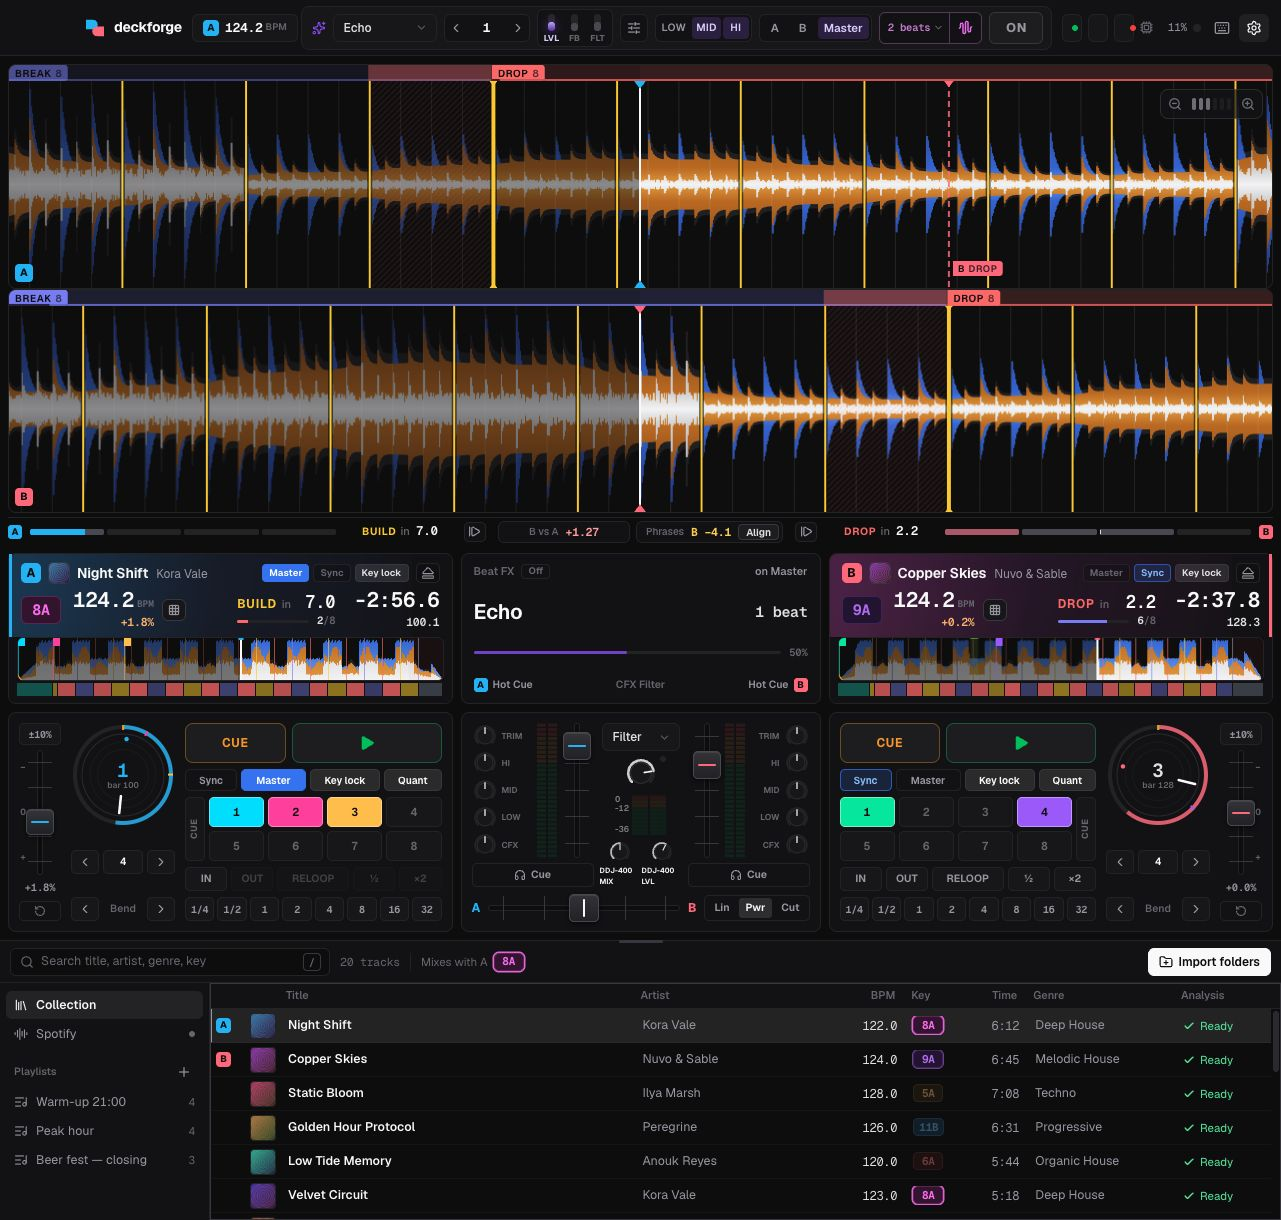
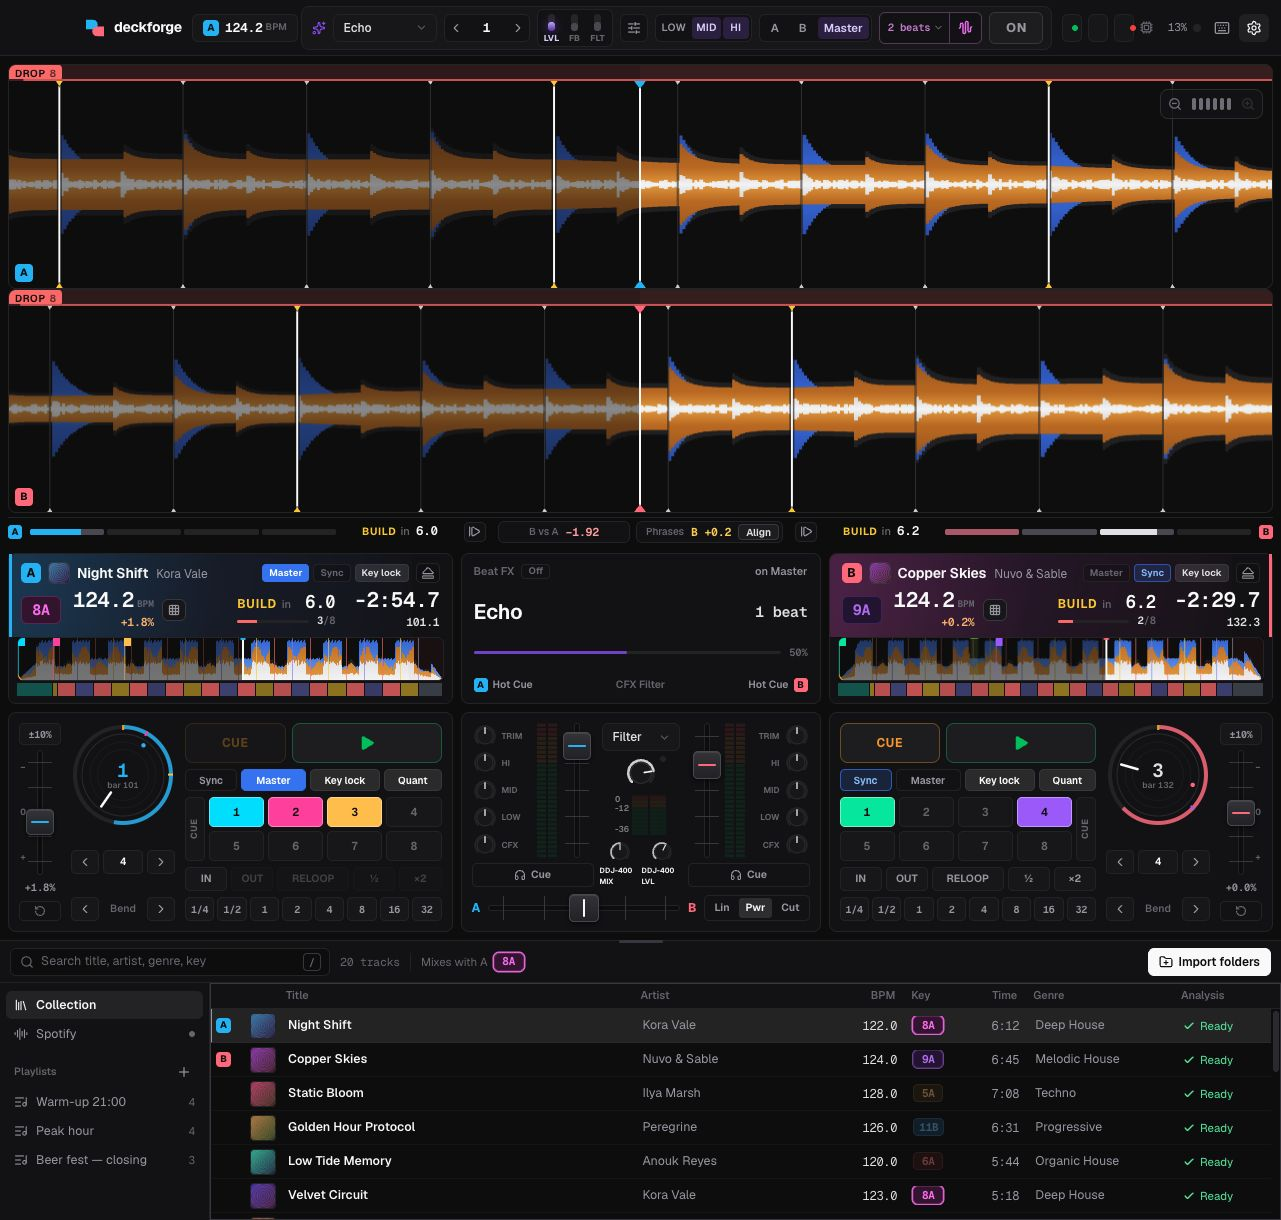
style: clarify beatmatch beat markers

diff --git a/apps/desktop/src/lib/waveform/draw.ts b/apps/desktop/src/lib/waveform/draw.ts
@@ -102,13 +102,16 @@ const INK = '#09090b';
 const GRID = {
   beat: 'rgba(250,250,250,0.3)',
   beatFaint: 'rgba(250,250,250,0.09)',
+  beatmatchMinor: 'rgba(250,250,250,0.18)',
+  beatmatchMinorMarker: 'rgba(250,250,250,0.82)',
+  beatmatchDownbeat: '#fafafa',
+  beatmatchDownbeatMarker: '#facc15',
   bar: 'rgba(250,250,250,0.5)',
   four: 'rgba(250,250,250,0.78)',
   shadow: 'rgba(9,9,11,0.6)',
   marker: 'rgba(250,250,250,0.72)',
   label: 'rgba(212,212,216,0.6)',
   aligned: '#4ade80',
-  beatOne: '#facc15',
 };
 
 export const bandHeight = (hasPhrases: boolean, dpr: number) => (hasPhrases ? Math.round(BAND_CSS * dpr) : 0);
@@ -163,6 +166,23 @@ function triangle(ctx: CanvasRenderingContext2D, cx: number, y: number, w: numbe
   ctx.lineTo(cx, y + (down ? h : 0));
   ctx.closePath();
   ctx.fill();
+}
+
+function outlinedTriangle(
+  ctx: CanvasRenderingContext2D,
+  cx: number,
+  y: number,
+  w: number,
+  h: number,
+  down: boolean,
+  fill: string,
+  outline: string,
+  outlineWidth: number,
+) {
+  ctx.fillStyle = outline;
+  triangle(ctx, cx, down ? y : y - outlineWidth, w + outlineWidth * 2, h + outlineWidth, down);
+  ctx.fillStyle = fill;
+  triangle(ctx, cx, y, w, h, down);
 }
 
 function fillMarker(ctx: CanvasRenderingContext2D, x: number, end: number, band: number, dpr: number, color: string) {
@@ -401,11 +421,33 @@ export class ScrollerRenderer {
       for (const l of lines) {
         if (l.kind !== 'beat') continue;
         const x = xOfLine(l.secs);
+        if (beatmatch) {
+          ctx.fillStyle = GRID.shadow;
+          line(x, 2, top, waveH);
+          ctx.fillStyle = GRID.beatmatchMinor;
+          line(x, 0.75, top, waveH);
+          const markerW = Math.min(5 * dpr, beatPx * 0.55);
+          const markerH = Math.min(4 * dpr, markerW * 0.8);
+          const outline = 1 * dpr;
+          outlinedTriangle(ctx, x, top, markerW, markerH, true, GRID.beatmatchMinorMarker, GRID.shadow, outline);
+          outlinedTriangle(
+            ctx,
+            x,
+            H - markerH,
+            markerW,
+            markerH,
+            false,
+            GRID.beatmatchMinorMarker,
+            GRID.shadow,
+            outline,
+          );
+          continue;
+        }
         if (beatPx >= 22 * dpr) {
           ctx.fillStyle = GRID.beatFaint;
           line(x, 1, top + tick, waveH - 2 * tick);
         }
-        ctx.fillStyle = beatmatch ? GRID.beatFaint : GRID.beat;
+        ctx.fillStyle = GRID.beat;
         line(x, 1, top, tick);
         line(x, 1, H - tick, tick);
       }
@@ -420,13 +462,36 @@ export class ScrollerRenderer {
       const x = xOfLine(l.secs);
       if (beatmatch) {
         const phraseStart = mark.level === 'phrase';
+        const markerW = (phraseStart ? 9 : 7) * dpr;
+        const markerH = (phraseStart ? 6 : 5) * dpr;
+        const outline = 1.25 * dpr;
         ctx.fillStyle = GRID.shadow;
         line(x, phraseStart ? 7 : 4.5, top, waveH);
-        ctx.fillStyle = GRID.beatOne;
+        ctx.fillStyle = GRID.beatmatchDownbeat;
         line(x, phraseStart ? 3.5 : 1.75, top, waveH);
-        if (phraseStart) {
-          triangle(ctx, x, top, 8 * dpr, 5 * dpr, true);
-          triangle(ctx, x, H - 5 * dpr, 8 * dpr, 5 * dpr, false);
+        if (phraseStart || barPx >= 14 * dpr) {
+          outlinedTriangle(
+            ctx,
+            x,
+            top,
+            markerW,
+            markerH,
+            true,
+            GRID.beatmatchDownbeatMarker,
+            GRID.shadow,
+            outline,
+          );
+          outlinedTriangle(
+            ctx,
+            x,
+            H - markerH,
+            markerW,
+            markerH,
+            false,
+            GRID.beatmatchDownbeatMarker,
+            GRID.shadow,
+            outline,
+          );
         }
         continue;
       }

diff --git a/crates/gfx/src/scene.rs b/crates/gfx/src/scene.rs
@@ -547,7 +547,9 @@ fn level_look(style: &Style, level: BarLevel, deck: Rgba, phrase: Rgba) -> Level
     }
 }
 
-const BEAT_ONE: Rgba = [250.0 / 255.0, 204.0 / 255.0, 21.0 / 255.0, 1.0];
+const BEAT_ONE_LINE: Rgba = [250.0 / 255.0, 250.0 / 255.0, 250.0 / 255.0, 1.0];
+const BEAT_ONE_MARKER: Rgba = [250.0 / 255.0, 204.0 / 255.0, 21.0 / 255.0, 1.0];
+const MINOR_BEAT_MARKER: Rgba = [250.0 / 255.0, 250.0 / 255.0, 250.0 / 255.0, 0.82];
 
 /// Beat ticks and the phrase-anchored bar hierarchy (bar, 4, 8, 16, phrase) with `n/len` labels.
 fn grid_quads(out: &mut QuadList, ctx: &SurfaceCtx<'_>, pps: f64, pos: f64, cx: f64, top: f64) {
@@ -596,9 +598,49 @@ fn grid_quads(out: &mut QuadList, ctx: &SurfaceCtx<'_>, pps: f64, pos: f64, cx: 
     let tick = (wave_h * 0.11).round().max(3.0 * scale);
 
     if beat_px >= 6.0 * scale {
-        let faint = with_alpha(style.grid_beat, style.grid_beat[3] * 0.3);
+        let faint = with_alpha(style.grid_beat, style.grid_beat[3] * 0.18);
         for line in lines.iter().filter(|l| l.kind == LineKind::Beat) {
             let x = x_of(line.secs);
+            if deck.beatmatch_view {
+                line_quad(out, x, 2.0, scale, top, wave_h, style.grid_shadow, snap);
+                line_quad(out, x, 0.75, scale, top, wave_h, faint, snap);
+                let marker_w = (5.0 * scale).min(beat_px * 0.55);
+                let marker_h = (4.0 * scale).min(marker_w * 0.8);
+                let outline = scale;
+                out.triangle(
+                    x - (marker_w + outline * 2.0) * 0.5,
+                    top,
+                    marker_w + outline * 2.0,
+                    marker_h + outline,
+                    true,
+                    style.grid_shadow,
+                );
+                out.triangle(
+                    x - marker_w * 0.5,
+                    top,
+                    marker_w,
+                    marker_h,
+                    true,
+                    MINOR_BEAT_MARKER,
+                );
+                out.triangle(
+                    x - (marker_w + outline * 2.0) * 0.5,
+                    h - marker_h - outline,
+                    marker_w + outline * 2.0,
+                    marker_h + outline,
+                    false,
+                    style.grid_shadow,
+                );
+                out.triangle(
+                    x - marker_w * 0.5,
+                    h - marker_h,
+                    marker_w,
+                    marker_h,
+                    false,
+                    MINOR_BEAT_MARKER,
+                );
+                continue;
+            }
             if beat_px >= 22.0 * scale {
                 line_quad(
                     out,
@@ -611,9 +653,8 @@ fn grid_quads(out: &mut QuadList, ctx: &SurfaceCtx<'_>, pps: f64, pos: f64, cx: 
                     snap,
                 );
             }
-            let beat_color = if deck.beatmatch_view { faint } else { style.grid_beat };
-            line_quad(out, x, 1.0, scale, top, tick, beat_color, snap);
-            line_quad(out, x, 1.0, scale, h - tick, tick, beat_color, snap);
+            line_quad(out, x, 1.0, scale, top, tick, style.grid_beat, snap);
+            line_quad(out, x, 1.0, scale, h - tick, tick, style.grid_beat, snap);
         }
     }
 
@@ -629,6 +670,9 @@ fn grid_quads(out: &mut QuadList, ctx: &SurfaceCtx<'_>, pps: f64, pos: f64, cx: 
         let x = x_of(line.secs);
         if deck.beatmatch_view {
             let phrase_start = mark.level == BarLevel::Phrase;
+            let marker_w = if phrase_start { 9.0 } else { 7.0 } * scale;
+            let marker_h = if phrase_start { 6.0 } else { 5.0 } * scale;
+            let outline = 1.25 * scale;
             line_quad(
                 out,
                 x,
@@ -646,14 +690,42 @@ fn grid_quads(out: &mut QuadList, ctx: &SurfaceCtx<'_>, pps: f64, pos: f64, cx: 
                 scale,
                 top,
                 wave_h,
-                BEAT_ONE,
+                BEAT_ONE_LINE,
                 snap,
             );
-            if phrase_start {
-                let s = 8.0 * scale;
-                let t = 5.0 * scale;
-                out.triangle(x - s * 0.5, top, s, t, true, BEAT_ONE);
-                out.triangle(x - s * 0.5, h - t, s, t, false, BEAT_ONE);
+            if phrase_start || bar_px >= 14.0 * scale {
+                out.triangle(
+                    x - (marker_w + outline * 2.0) * 0.5,
+                    top,
+                    marker_w + outline * 2.0,
+                    marker_h + outline,
+                    true,
+                    style.grid_shadow,
+                );
+                out.triangle(
+                    x - marker_w * 0.5,
+                    top,
+                    marker_w,
+                    marker_h,
+                    true,
+                    BEAT_ONE_MARKER,
+                );
+                out.triangle(
+                    x - (marker_w + outline * 2.0) * 0.5,
+                    h - marker_h - outline,
+                    marker_w + outline * 2.0,
+                    marker_h + outline,
+                    false,
+                    style.grid_shadow,
+                );
+                out.triangle(
+                    x - marker_w * 0.5,
+                    h - marker_h,
+                    marker_w,
+                    marker_h,
+                    false,
+                    BEAT_ONE_MARKER,
+                );
             }
             continue;
         }
@@ -1466,18 +1538,48 @@ mod tests {
         for bar in [18.0, 19.0] {
             let x = cx + (bar * 60.0 / 128.0 * 4.0 - d.pos_secs) * pps;
             assert!(q.items.iter().any(|i| {
-                i.color == BEAT_ONE
+                i.color == BEAT_ONE_LINE
                     && i.kind[0] == KIND_RECT
+                    && f64::from(i.rect[3]) > 100.0
                     && (f64::from(i.rect[0]) + f64::from(i.rect[2]) * 0.5 - x).abs() < 1e-3
             }));
         }
-        assert!(q.items.iter().any(|i| i.color == BEAT_ONE && i.kind[0] == KIND_TRI_DOWN));
-        assert!(q.items.iter().any(|i| i.color == faint_grid_beat(&style)));
+        assert!(
+            q.items
+                .iter()
+                .any(|i| i.color == BEAT_ONE_MARKER && i.kind[0] == KIND_TRI_DOWN)
+        );
+        assert!(
+            q.items
+                .iter()
+                .any(|i| i.color == BEAT_ONE_MARKER && i.kind[0] == KIND_TRI_UP)
+        );
+        assert!(
+            q.items
+                .iter()
+                .any(|i| i.color == MINOR_BEAT_MARKER && i.kind[0] == KIND_TRI_DOWN)
+        );
+        assert!(
+            q.items
+                .iter()
+                .any(|i| i.color == MINOR_BEAT_MARKER && i.kind[0] == KIND_TRI_UP)
+        );
+        let minor_guides: Vec<_> = q
+            .items
+            .iter()
+            .filter(|i| {
+                i.color == faint_grid_beat(&style)
+                    && i.kind[0] == KIND_RECT
+                    && f64::from(i.rect[3]) > 100.0
+            })
+            .collect();
+        assert!(!minor_guides.is_empty());
+        assert!(minor_guides.iter().all(|i| i.rect[2] <= 1.0));
         assert!(q.items.iter().all(|i| i.kind[0] != KIND_GLYPH));
     }
 
     fn faint_grid_beat(style: &Style) -> Rgba {
-        with_alpha(style.grid_beat, style.grid_beat[3] * 0.3)
+        with_alpha(style.grid_beat, style.grid_beat[3] * 0.18)
     }
 
     #[test]
